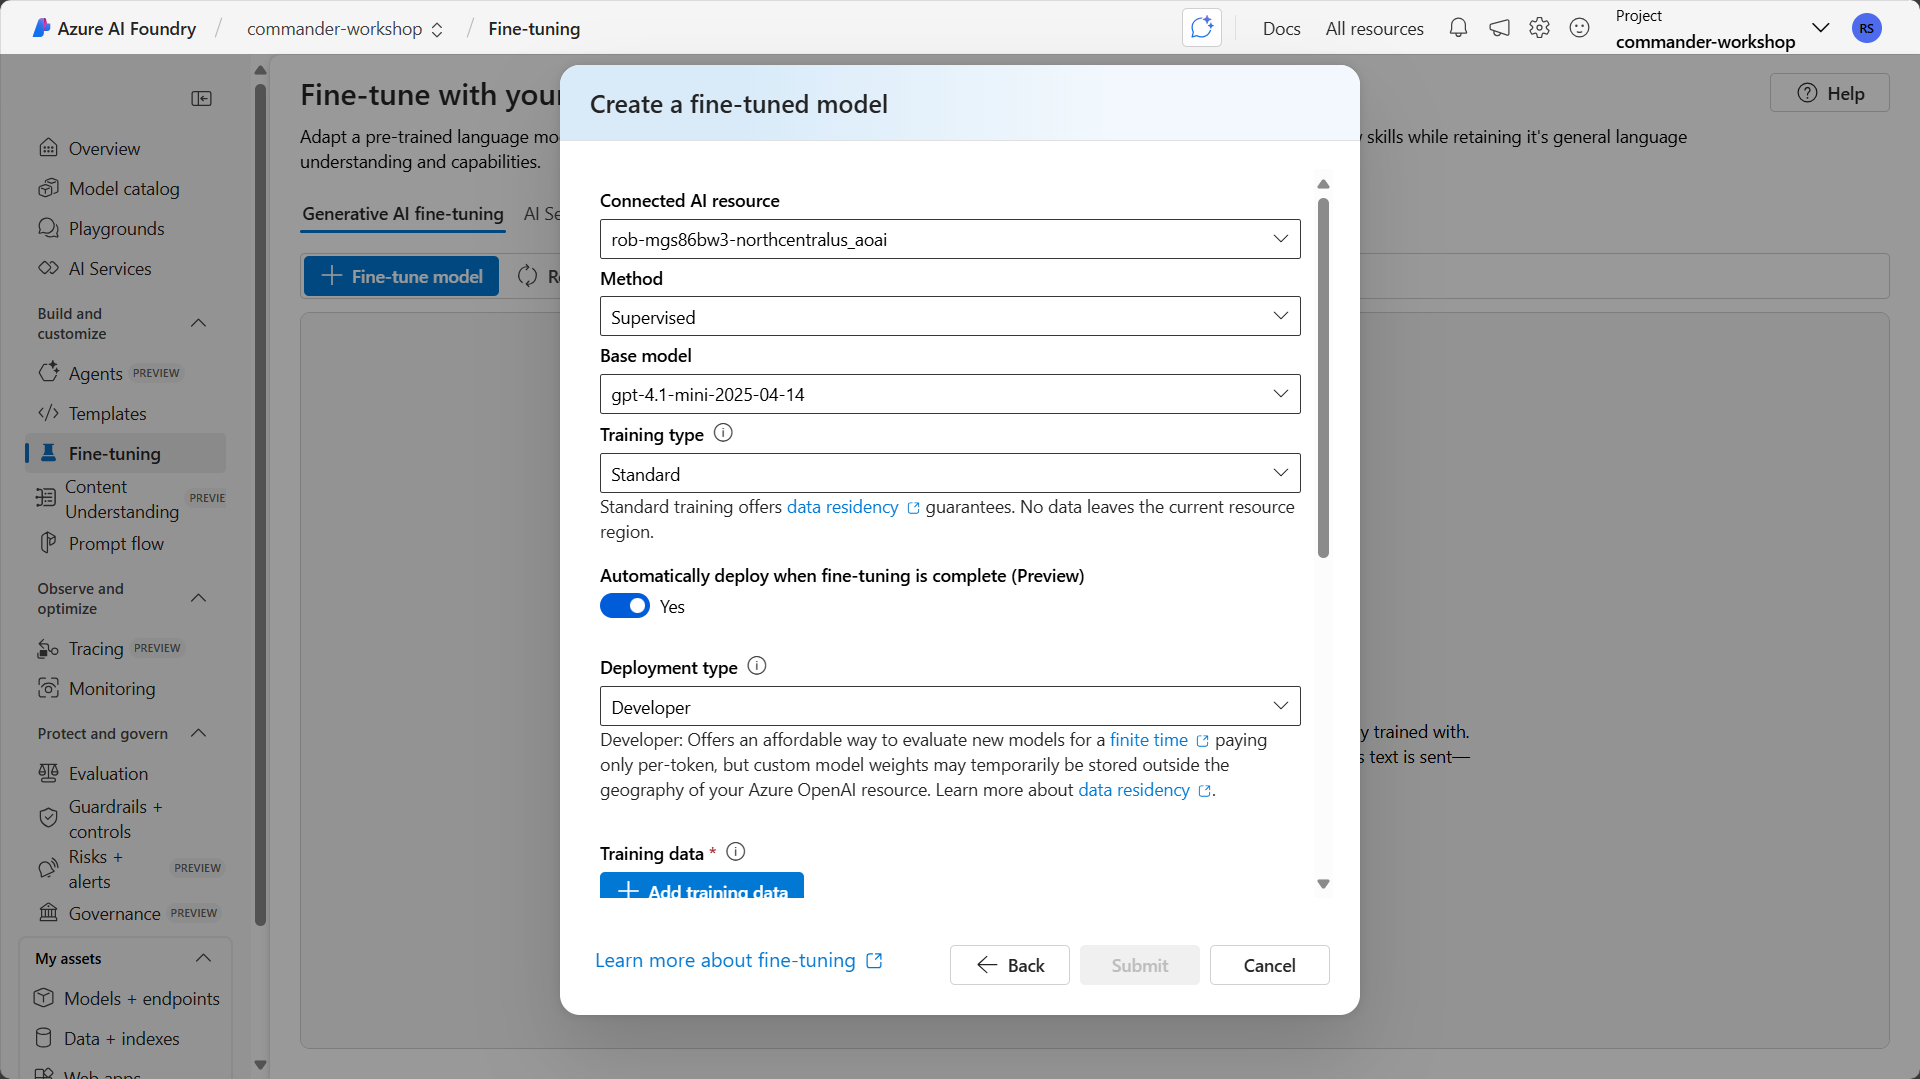
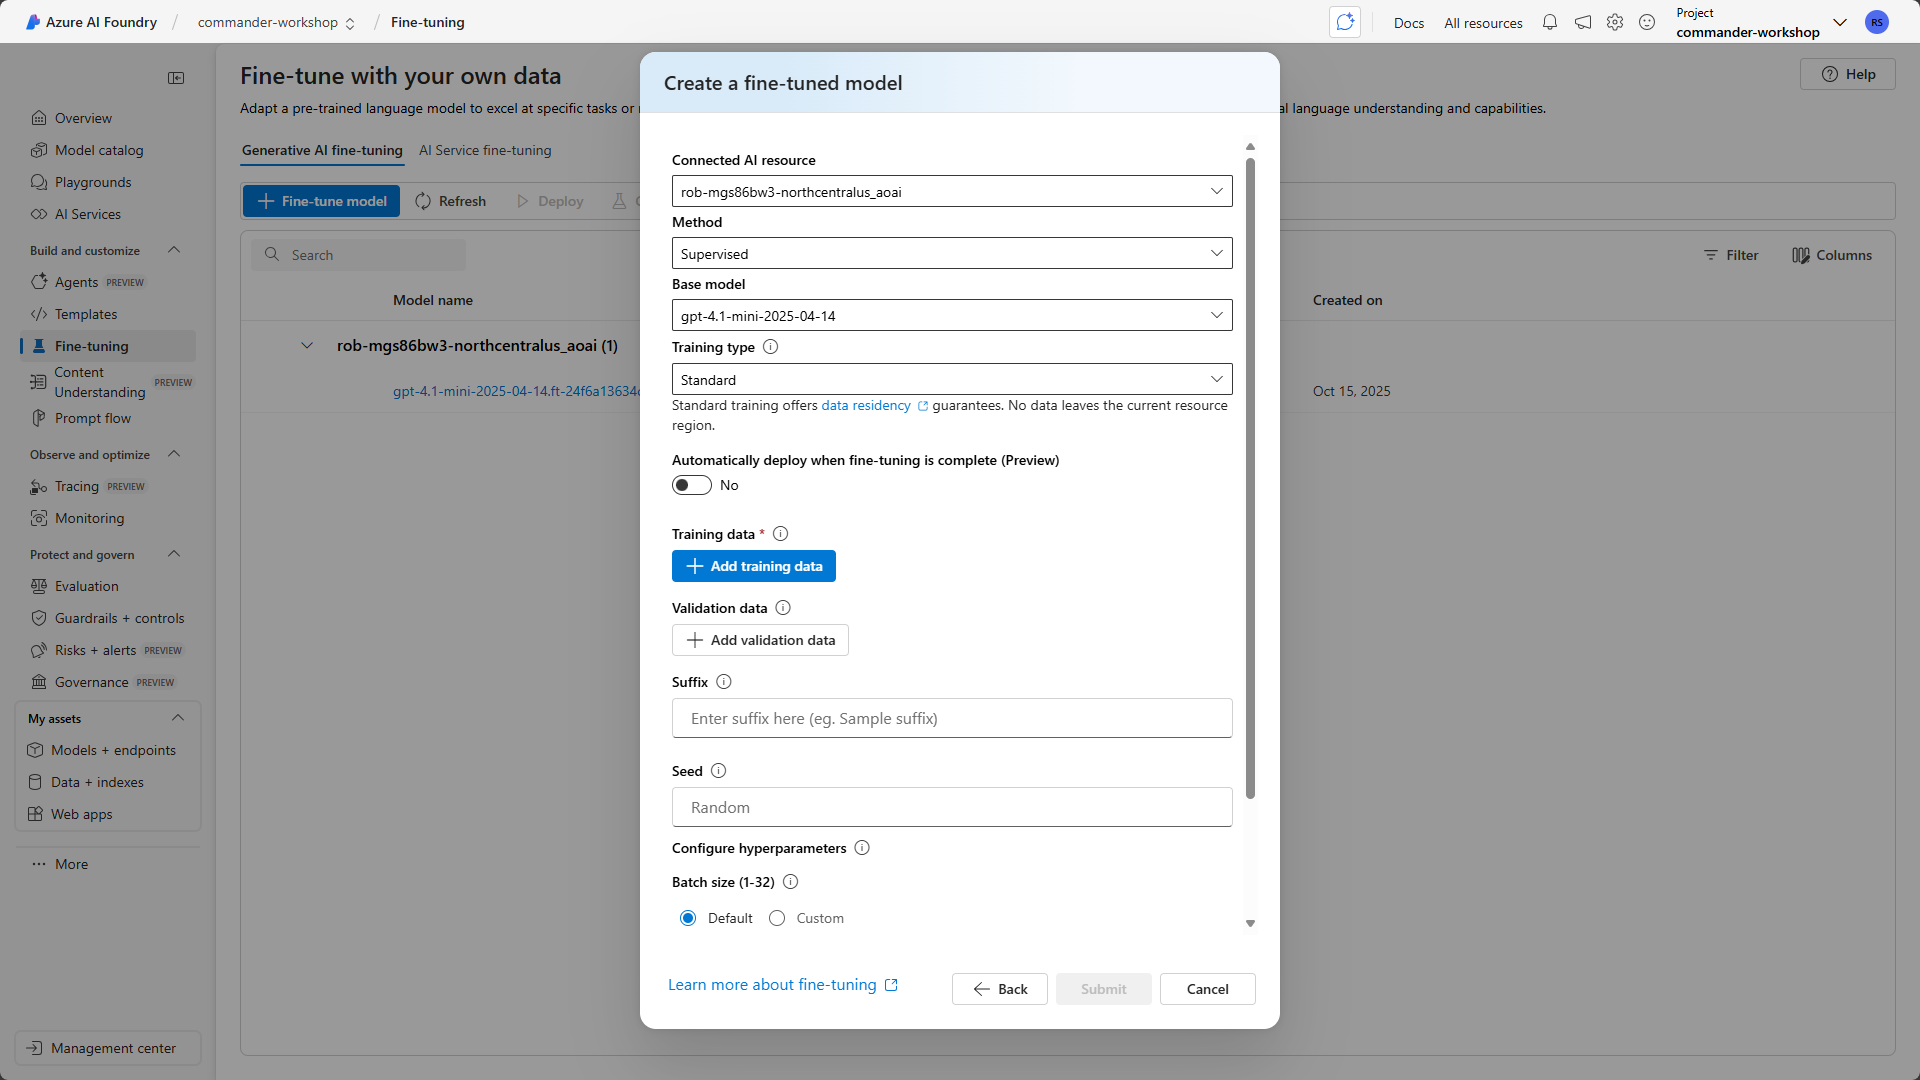
Updates for fine-tuning

diff --git a/docs/commander/07-extend-with-azure-ai/README.md b/docs/commander/07-extend-with-azure-ai/README.md
@@ -391,7 +391,9 @@ Now you'll connect your AI Search index as a knowledge source for your agent.
 
 1. Verify the knowledge source appears in your list.
 
-## 🧪 Lab 7.2: Deploy a model in Azure AI Foundry
+1. TODO: Show the knowledge source working in the agent.
+
+## 🧪 Lab 7.2: BYOM from Azure AI Foundry to your agent
 
 In this lab, you'll put BYOM into practice by deploying a fine-tuned model that you will use in your agent.
 
@@ -414,10 +416,10 @@ In this lab, you'll put BYOM into practice by deploying a fine-tuned model that 
     - **Method**: Select `Supervised`
     - **Base model**: Select the `gpt-4.1-mini` model
     - **Training type**: Select `Standard`
-    - **Automatically deploy when fine-tuning is complete**: Select `Yes`
-    - **Deployment type**: Select Developer
+    - **Automatically deploy when fine-tuning is complete**: Select `No`
+    - **Deployment type**: Select `Developer`
 
-    ![Create fine-tuned model](./assets/7-create-fine-tuned-model.png)
+    ![Create the fine-tuned model](./assets/7-create-fine-tuned-model.png)
 
 1. Now it's time to add your training data.
 
@@ -437,9 +439,15 @@ In this lab, you'll put BYOM into practice by deploying a fine-tuned model that 
 
     Select **Submit**.
 
-    ![Create the fine-tuned model](./assets/7-create-fine-tuned-model.png)
+1. AI Foundry will queue the fine-tuning job, and it will take some time to fine-tune the model. When the process is complete, the status will change from **Queued** to **Completed**.
 
-1. AI Foundry will queue the fine-tuning job, and it will take some time to fine-tune the model. When the process is complete, the status will change from **Queued** to **Ready**.
+    ![Fine-tuned model](./assets/7-fine-tuning.png)
+
+1. Now it's time to deploy the fine-tuned model. Select **Use this model**.
+
+1. Enter `gpt-4.1-mini-fine-tuned` for the **Deployment name**
+
+    Select **Deploy**
 
 1. AI Foundry displays the details of your model deployment. Note the following information from the model deployment, as you'll need it later:
 
@@ -447,8 +455,11 @@ In this lab, you'll put BYOM into practice by deploying a fine-tuned model that 
     - **API Key**: This is the primary key for authentication.
     - **Deployment name**: This is the name you chose (or left default) when deploying the model.
 
+    ![Fine tuned model](./assets/7-model-deployment-details.png)
+
 **Important:** Keep your API key secure. Don't share it or commit it to source control.
 
+### 7.2.3 Use the model in a prompt
 
 ## ✅ Mission Complete
 
